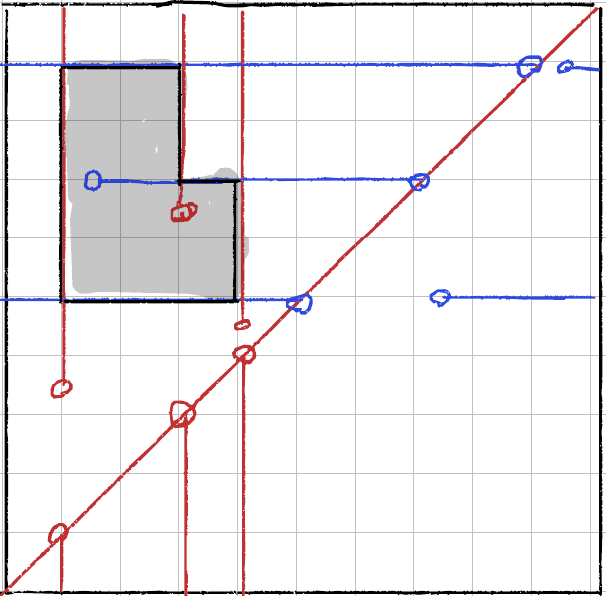
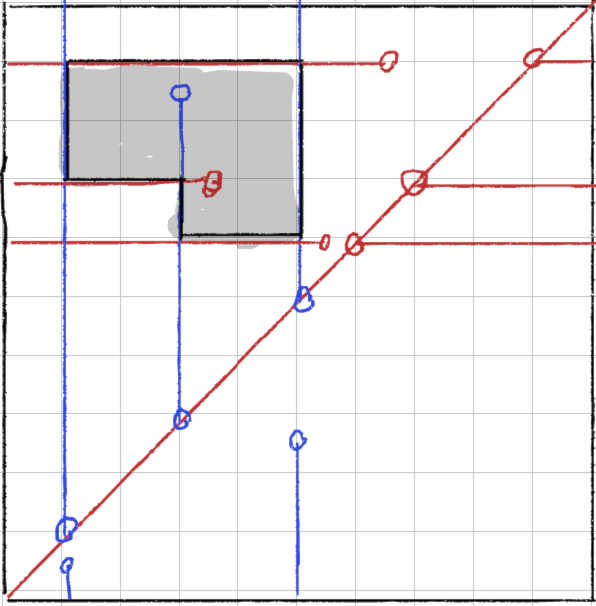
Finish the accordions

diff --git a/construct-current.tex b/construct-current.tex
@@ -7,150 +7,153 @@
 \label{sec:countable-additivity}
 
 We prove countable additivity of the function $\mu_{f}$ by
-proving approximation results.
+proving approximation results. We first find controlled sequences of
+decreasing nested RH boxes that we can show have measure going to zero.
 
 \begin{definition}
-Let the RH lift system $(p_1,q_1,p_2,q_2)$ determine a right-handed box $B = [a_1,a_2) \times [b_1,b_2)$.
-We define the \emph{top vertical accordion} of boxes based at $B$ to be
-the following sequence of boxes, indexed by $k$:
+Let the RH lift system $(p_1,p_2,q_1,q_2)$ determine a right-handed
+box
+\DPTtodo{Change box endpoints to $s_i$ and $t_i$. Also fix which end
+  they are open on}
+$B = (s_1,s_2] \times [t_1,t_2)$, where $s_i = \ell_i^-$ and $t_i =
+r_i^+$. Further assume that $\ora{r_2}$ is nested inside $\ora{r_1}$,
+so the box is of type~2 or~3.
+
+Define the \emph{vertical accordion} $F_{p_1,p_2,q_1,\vec{q_2}}$ of
+boxes based at $B$ to be
+the sequence of boxes, indexed by $k$, with $p_1, p_2, q_1$ constant
+and $q_2$ successively translated by $r_1 = q_1 x Q_1$:
 \[
-  p_1^{(k)}=p_1,\quad
-  p_2^{(k)}=p_2,\quad
-  q_1^{(k)}=q_1,\quad
+  p_1^{(k)}\coloneqq p_1,\quad
+  p_2^{(k)}\coloneqq p_2,\quad
+  q_1^{(k)}\coloneqq q_1,\quad
   q_2^{(k)} \coloneqq q_1 x^k q_1^{-1}q_2.
 \]
-Since the endpoint corresponding to $q_2$ is the one changing, we will denote these sequence of boxes by
-\[
-F_{p_1,p_2,q_1,\vec{q_2}}.
-\]
-This defines boxes whose vertical direction becomes narrower as $k$ grows, with the top endpoint fixed. 
-Similarly, we define \emph{bottom vertical accordion}, and denote it by 
-\[
-F_{p_1,p_2,\bar{q_1},q_2},
-\]
-giving a sequence of boxes whose vertical direction becomes narrower and the bottom endpoint fixed, i.e.,
-\[
-  p_1^{(k)}=p_1,\quad
-  p_2^{(k)}=p_2,\quad
-  q_1^{(k)}=q_2 x^k q_2^{-1}q_1,\quad
-  q_2^{(k)} \coloneqq q_2.
-\]
+This defines boxes whose vertical height becomes narrower as $k$
+grows, with the top endpoint fixed. See
+Figure~\ref{fig:vertical-accordion}.
+\DPTtodo[inline]{In Fig.~\ref{fig:vertical-accordion}, the shading
+  distinctions between the nested boxes are too subtle. We'll redraw
+  it anyway.}
 
-On the other hand, if we fix $p_2,q_1,q_2$ and allow $p_1$ to vary, by choosing nested lifts of $x$ for $p_1$ and $p_2$, we obtain a datum given by the box notation $p_2^{(k)}=p_2,q_1^{(k)}=q_1,q_2^{(k)}=q_2$, and
+\begin{figure}
+  \[
+    \mathcenter{\includegraphics[height=2.5in]{v-accordion-disk}}
+    \qquad\qquad
+    \mathcenter{\includegraphics[height=2.5in]{v-accordion-whiskers}}
+  \]
+  \caption{A vertical accordion $F_{p_1,p_2,q_1,\vec{q_2}}$, shown in
+    the disk (left) and in the whiskers picture (right)}
+  \label{fig:vertical-accordion}
+\end{figure}
+
+Similarly, if $\ora{\ell_1}$ is nested in $\ora{\ell_2}$, or
+equivalently $\ora{p_1P_2}$ R-crosses $\ora{x}$, define the
+\emph{horizontal accordion} $F_{\vec{p_1},p_2,q_1,q_2}$ by
 \[
-p_1^{(k)} = p_2 x^k p_2^{-1} p_1.
+  p_1^{(k)}\coloneqq p_1 p_2^{-1}x^k p_2,\quad
+  p_2^{(k)}\coloneqq p_2,\quad
+  q_1^{(k)}\coloneqq q_1,\quad
+  q_2^{(k)} \coloneqq q_1.
 \]
-and we denote the corresponding family of boxes,
-\[
-F_{\vec{p_1},p_2,q_1,q_2}.
-\]
-We will call them a \emph{right horizontal accordion of boxes based at $B$} (the right endpoint is fixed).
-Similarly, we can define a \emph{left horizontal accordion} (the left endpoint is fixed).
 \label{def:accordion}
 \end{definition}
 
-The following Proposition will be key to control how much $\mu_f$
-changes when the right-handed boxes are varied in a control way. In
-particular, it will be crucial in proving countable additivity
-of~$\mu_f$.
-
-\begin{figure}
-\centering{
-\resizebox{80mm}{!}{\svgfig{final}}
-\caption{Sequence of boxes determining an accordion.}
-\label{fig:finalfamily}
-}
-\end{figure}
+% \begin{figure}
+% \centering{
+% \resizebox{80mm}{!}{\svgfig{final}}
+% \caption{Sequence of boxes determining an accordion.}
+% \label{fig:finalfamily}
+% }
+% \end{figure}
 
 \begin{proposition}
- Given a RH lift system $(p_1,q_1,p_2,q_2)$, let $F(k)$ be  a system of lifts in an accordion configuration, as in Definition~\ref{def:accordion}, in any of the four types $F_{\vec{p_1},q_1,p_2,q_2}(k)$, $F_{p_1,\vec{q_1},p_2,q_2}(k)$, $F_{p_1,q_1,\vec{p_2},q_2}(k)$ and $F_{p_1,q_1,p_2,\vec{q_2}}(k)$. Furthermore, assume that in each of the respective cases, we have $p_2^{-1}q_1$ cross $x$ to the right,  (resp.\
-  $q_2^{-1}q_1$ cross $x$ to the right, resp.\
-  $p_1^{-1}p_2$ cross $x$ to the right, resp.\
-  $q_1^{-1}q_2$ cross $x$ to the right).
-
- We have
-
-\begin{itemize}
- \item For every $k \geq 0$, $F(k)$ is a right-handed box;
-\item for every $k$, $F(k+1) \subset F(k)$;
-\item and,
-\[
-\lim_{k \to \infty} \mu_f(F(k))= 0.
-\]
-\end{itemize}
-\label{prop:finalfamily1}
+  Let $F(k) = F_{p_1,p_2,q_1,\vec{q_2}}(k)$ or $F_{\vec{p_1},p_2,q_1,q_2}(k)$ be a
+  vertical or horizontal accordion as above. Then
+  \begin{itemize}
+  \item each $F(k)$ is a RH box;
+  \item $F(k+1) \subset F(k)$; and
+  \item $\displaystyle \lim_{k \to \infty} \mu_f(F(k)) = 0$.
+  \end{itemize}
+\label{prop:finalfamily}
 \end{proposition}
+
 \begin{proof}
-We first prove that an accordion $F(k)$ is a right-handed box. Consider first a top vertical accordion $F_{p_1,q_1,p_2,\vec{q_2}}(k)$ (the other types are similar).
-    We know that $[p_1,q_1,p_2,q_2]$ form a RH lift system, so 
-    $p_i q_i$ cross $x$ to the right
-        and $q_2 x^n p_1$ cross $q_1x^n p_2$ to the right (by Definition~\ref{def:crossing}). 
-        By north-south dynamics of $q_1 x q_1^{-1}$, the translates of $\ora{x}$ look like in Figure~\ref{fig:finalfamily}.
-        The following properties follow immediately.
-    
-    \begin{enumerate}
-        \item $p_1 q_1 x^k q_1^{-1} q_2$ crosses $x$ to the right.
-        \item $p_2 q_1 x^k q_1^{-1} q_2$ crosses $x$ to the right.   
-        \item   $q_1 x^k q_1^{-1} q_2x^n p_1$ cross $q_1x^n p_2$ to the right.
-    \end{enumerate} 
-    For property (2') of a right-handed lift system, we note that $p_1^{(k)} P_2^{(k)}=p_1 P_2$ is not a multiple of $x$ by hypotheses. On the other hand, $Q_1^{(k)}q_2 = x^k q_1^{-1}q_2$, which cannot be a power of $x^k$ since $q_1^{-1}q_2$ is assumed to cross $x$ to the right.
-    
-    This proves that top vertical accordions are right handed boxes. The proof is similar for other types of accordions.
-We now prove that for a fixed RH lift system $(p_1,q_1,p_2,q_2)$ and a corresponding accordion $F(k)$, $\lim_{k \to \infty} \mu(F(k))=0$.
-    We give the argument for type $F_{p_1,q_1,p_2,\vec{q_2}}$, the other types are similar.
-    We will first go from the RH lift system notation (boxes) to the RH system notation (orbits of boxes), since the latter is better suited for the definition of $\mu_f$.
-    We have
- \begin{align*}
-     a &= p_1 q_1 \\
-     b &= p_1 q_1 x^k q_1^{-1} q_2 \\     
-     c &= p_2 q_1  \\  
-     d &= p_2 q_1 x^k q_1^{-1} q_2 \\  
- \end{align*}
- Writing $e=q_1^{-1} q_2$, we have
- \begin{align*}
-     b &= a x^k e \\     
-     d &= c x^k e. \\  
- \end{align*}
-We thus get the family of box orbits given by
+  We first prove the results in the case of vertical accordions,
+  starting with checking that $F(k)$ is a box. Since $\ora{r_2}$ is
+  nested inside $\ora{r_1}$, the NS dynamics of the group element $r_1
+  = q_1 x q_1^{-1}$ translate $\ora{r_2}$ towards $r_1^+$, as depicted
+  in Figure~\ref{fig:vertical-accordion}. In particular the cyclic
+  order of the endpoints doesn't change, and we also automatically
+  have $F(k+1) \subset F(k)$.
+
+  To show the measures go to zero, we first reformulate the nesting
+  condition algebraically. Note that
+  $q_2Q_1 \cdot \ora{r_1} = \ora{r_2}$. Thus the $\ora{r_1}$ and
+  $\ora{r_2}$ are nested iff $\ora{q_2Q_1}$ R-crosses $\ora{r_1}$. This is
+  in turn equivalent to $Q_2 \cdot \ora{q_2Q_1} = \ora{Q_1q_2}$
+  R-crossing $\ora{x}$; write $e = Q_1q_2$.
+
+  In the RH orbit notation, we then have
+  \begin{align*}
+    a^{(k)} &= p_1 q_1 = a &
+    b^{(k)} &= p_1 q_2^{(k)} = p_1 q_1 x^k q_1^{-1}q_2 = a x^k e\\
+    c^{(k)} &= p_2 q_1 = c &
+    d^{(k)} &= p_2 q_2^{(k)} = p_2 q_1 x^k q_1^{-1} q_2 = c x^k e.
+  \end{align*}
+
+We thus get the family of RH orbits given by
 \[
 \bigl([B]_{a,a x^k e,c,c x^k e}\bigr)_{k=0}^\infty.
 \]
-Figure~\ref{fig:finalfamily} related the box to the orbit notation.
-
-    We want to show
+%Figure~\ref{fig:finalfamily} related the box to the orbit notation.
+To show this family of orbits have measure going to zero,
+by definition of $\mu_f$, we need to see that the nested limit
 \[
-\lim_{k \to \infty} \mu_f([B]_{a,a x^k e,c,c x^k e})=0.
+\lim_{k \to \infty} \bigl(\mu_f([B]_{a,ax^ke,c,cx^ke})\bigr) = \lim_{k \to \infty} \lim_{n\to \infty} f([ax^ke x^n]) + f([cx^n])-f([ax^n])-f([cx^kex^n])
 \]
-By definition of $\mu_f$,
+goes to zero. By Lemma~\ref{lem:additivity-limit-2}, the double limit
+exists, and by applying Proposition~\ref{prop:join-split-alg} we see
+that it is equal to zero.
+
+The case of the horizontal accordion is similar, but there are some
+confusing inverses so we spell it out briefly.
+Since $P_2 p_1 \cdot \ora{\ell_1} = \ora{\ell_2}$,
+the assumption that $\ora{\ell_1}$
+is nested inside $\ora{\ell_2}$ is equivalent to $\ora{P_2 p_1}$
+R-crossing $\ell_2$, which in turn is equivalent to $\ora{p_1 P_2}$
+R-crossing $\ora{x}$. In particular we have
+\[
+  \ora{\ell_1^{(k)}} = \bigl(p_1^{(k)}\bigr)^{-1} \cdot \ora{x}
+  = \bigl(p_2^{-1} x p_2)^{-k} \cdot \ora{\ell_1}
+  = \ell_2^{-k} \cdot \ora{\ell_1},
+\]
+which by NS dynamics of $\ell_2$ gives the picture on the left of
+Figure~\ref{fig:horizontal-accordion}. In particular all of the $F(k)$
+are boxes with $F(k+1) \subset F(k)$.
+
+For the limiting computation, we set $e = p_1 P_2$, so that
 \begin{align*}
-\mu_f([B]_{a,a x^k e,c,c x^k e})=\lim_{n\to \infty} f([ax^ke x^n]) + f([cx^n])-f([ax^n])-f([cx^kex^n]).
+  a^{(k)} &= p_1^{(k)} q_1 = e x^k c &
+  b^{(k)} &= p_1^{(k)} q_2 = e x^k d\\
+  c^{(k)} &= p_2 q_1 = c &
+  d^{(k)} &= p_2 q_2 = d.
 \end{align*}
-So, we are left to evaluate the nested limit
-\begin{align*}
-\lim_{k \to \infty} \lim_{n\to \infty} f([ax^ke x^n]) + f([cx^n])-f([ax^n])-f([cx^kex^n]).
-\end{align*}
-    We use Proposition~\ref{prop:join-split-geom},
-    equations~\ref{eq:cross-join} and
-    \ref{eq:cross-split}.
-    
-    Let $s>0$ be the constant (depending on $a,e$) furnished by Equation~\ref{eq:cross-join}, and let 
-    $s'$ be the constant (depending on $c,e$) from Equation~\ref{eq:cross-split}.
-    We assume $n$ is large enough so that $n-k-s>s$ and  $n-k-s'>s'$.
-    We can then take $r>0$ satisfying the hypotheses of both equations, namely, $n-k-s>r>s$ and $n-k-s'>r>s'$.
-    We then have the expression in the above iterated limit is upper bounded by
-    \[
-      f([ax^{k-r}]) + f([e x^{n+r}]) + f([cx^n])-f([ax^n])-f([cx^{k+r}]) - f([ex^{n-r}])
-    \]
-    by adding and subtracting a term $f([x^{k+n}])$, the iterated limit of the last expression is equivalent to the iterated limit
-    \begin{align*}
-       \lim_{k\to\infty} \lim_{n\to\infty}  \bigl( f([ax^{k+1}]) - f([x^{k+1}]\bigr) + \bigl( f([ex^{n-1}]) - f([x^{n-1}])\bigr) +  \\
-        \bigl( f([cx^n]) - f([x^n]) \bigr) - \bigl(f([cx^n]) - f([x^n])\bigr)\\
-        -\bigl(f([cx^{k+2}])-f([x^{k+2}])\bigr)-\bigl(f([ex^{n-2}])-f([x^{n-2}])\bigr).
-    \end{align*}
-    Finally, this iterated limit is 0 by  Lemma~\ref{lem:additivity-limit}, since $e=q_1^{-1} q_2$ crosses $x$ to the right, by assumption.\qedhere
+Lemma~\ref{lem:additivity-limit-2} and
+Proposition~\ref{prop:join-split-alg} apply as before.
 \end{proof}
 
-We now use Proposition~\ref{prop:finalfamily1} to prove that $\mu_f$
+\begin{figure}
+  \[
+    \mathcenter{\includegraphics[height=2.5in]{h-accordion-disk}}
+    \qquad\qquad
+    \mathcenter{\includegraphics[height=2.5in]{h-accordion-whiskers}}
+  \]
+  \caption{Horizontal accordion $F_{\vec{p_1},p_2,q_1,q_2}$}
+  \label{fig:horizontal-accordion}
+\end{figure}
+
+We now use Proposition~\ref{prop:finalfamily} to prove that $\mu_f$
 is countably additive.
 
 We will need to consider more types of boxes
@@ -174,7 +177,7 @@ without increasing the mass much.
   Let $B = [a_1,a_2) \times [b_1,b_2)$. By Proposition~\ref{prop:density} there is a right handed box $B'=[a_1'',a_1) \times [b_1'',b_1)$ in $\mathcal{R}$ so that
   $a_1'' < a_1$ and $b_1'' < b_1$.
   Let $H$ be a right horizontal accordion based at $B'$. 
-  By Proposition~\ref{prop:finalfamily1}, for $k$ large enough, we have $\mu_f(F(k))<\epsilon$. 
+  By Proposition~\ref{prop:finalfamily}, for $k$ large enough, we have $\mu_f(F(k))<\epsilon$. 
   Let $V'(B,\epsilon) \coloneqq B \cup F(k)$.
   We can now repeat the same procedure with $V'(B,\epsilon)$ in the vertical direction.
 \end{proof}

diff --git a/boxes.tex b/boxes.tex
@@ -941,25 +941,27 @@ horizontal segment at
 $y$-coordinate $\ell^-$ from $\ell^-$ to $\ell^+$.
 Then $(\ora{\ell}, \ora{r})$
 are R-parallel iff these two segments intersect, as in
-Figure~\ref{fig:whiskers2}.
+Figure~\ref{fig:whiskers}.
 Lemma~\ref{lem:diagonaldense} says that there are dense sets of these
 horizontal and vertical whiskers that extend from the diagonal almost
 all the way back to the diagonal.
 \DPTtodo{Use notation $r^+$, etc in pictures rather than $q\cdot x^+$}
 
+% \begin{figure}
+% \centering{
+% \resizebox{120mm}{!}{\svgfig{originwhiskers}}
+% \caption{Illustration defining a whisker, given by a choice of elements $q,x \in \pi_1(S)$ with a right handed crossing.}
+% \label{fig:whiskers}
+% }
+% \end{figure}
 \begin{figure}
-\centering{
-\resizebox{120mm}{!}{\svgfig{originwhiskers}}
-\caption{Illustration defining a whisker, given by a choice of elements $q,x \in \pi_1(S)$ with a right handed crossing.}
+\[
+  \includegraphics[height=2in]{box-whiskers-1}
+  \qquad\qquad
+  \includegraphics[height=2in]{box-whiskers-2}
+\]
+\caption{Example of the correspondence between right-handed boxes and collections of four whiskers.}
 \label{fig:whiskers}
-}
-\end{figure}
-\begin{figure}
-\centering{
-\resizebox{150mm}{!}{\svgfig{originwhiskers2}}
-\caption{Example of correspondence between right-handed boxes and collections of four whiskers}
-\label{fig:whiskers2}
-}
 \end{figure}
 
 \begin{proposition}
@@ -984,11 +986,13 @@ all the way back to the diagonal.
   Figure~\ref{fig:box-difference}.
 \end{proof}
 
+\DPTtodo{Figure has some crossing lifts of $[x]$ currently. Easy to
+  fix here}
 \begin{figure}
   \[
-    \mathcenter{\includegraphics[height=1.5in,angle=180]{difference-1}}
+    \mathcenter{\includegraphics[height=1.5in]{difference-1}}
     \qquad\leadsto\qquad
-    \mathcenter{\includegraphics[height=1.5in,angle=180]{difference-2}}
+    \mathcenter{\includegraphics[height=1.5in]{difference-2}}
   \]
   \caption{Decomposing a difference of boxes. Left: A possible shape
     for $A \setminus B$. Right: Adding a vertical whisker allows us to
@@ -1034,13 +1038,16 @@ all the way back to the diagonal.
 
 \begin{figure}
   \[
-    \mathcenter{\includegraphics[height=2in,angle=180]{finite-additive-1}}
+    \mathcenter{\includegraphics[height=2in]{finite-additive-1}}
     \qquad\leadsto\qquad
-    \mathcenter{\includegraphics[height=1.25in,angle=180]{finite-additive-2}}
+    \mathcenter{\includegraphics[height=1.25in]{finite-additive-2}}
   \]
   \caption{Finite additivity of $\mu_f$. By refinement, we can turn an
-    arbitrary division of a large box into smaller boxes into one that
-    is side-by-side decomposable.}
+    arbitrary division of a large box into smaller boxes (left) into
+    one that is side-by-side decomposable (right). On the right we
+    focus on the interesting region. The figure has crossing
+    lifts of $[x]$, which is impossible since $[x]$ is simple, but the
+    proof treats the general case equally well.}
   \label{fig:finite-additivity}
 \end{figure}
 

diff --git a/Intersections.tex b/Intersections.tex
@@ -215,7 +215,6 @@
 \DeclareMathOperator{\Sm}{Sm}
 \newcommand{\FLP}{{\textit{FLP}}} % Fathi, Laudenbach, Poenaru
 
-
 \usetikzlibrary{arrows}
 \tikzset{
     labl/.style={anchor=south, rotate=90, inner sep=.5mm}
